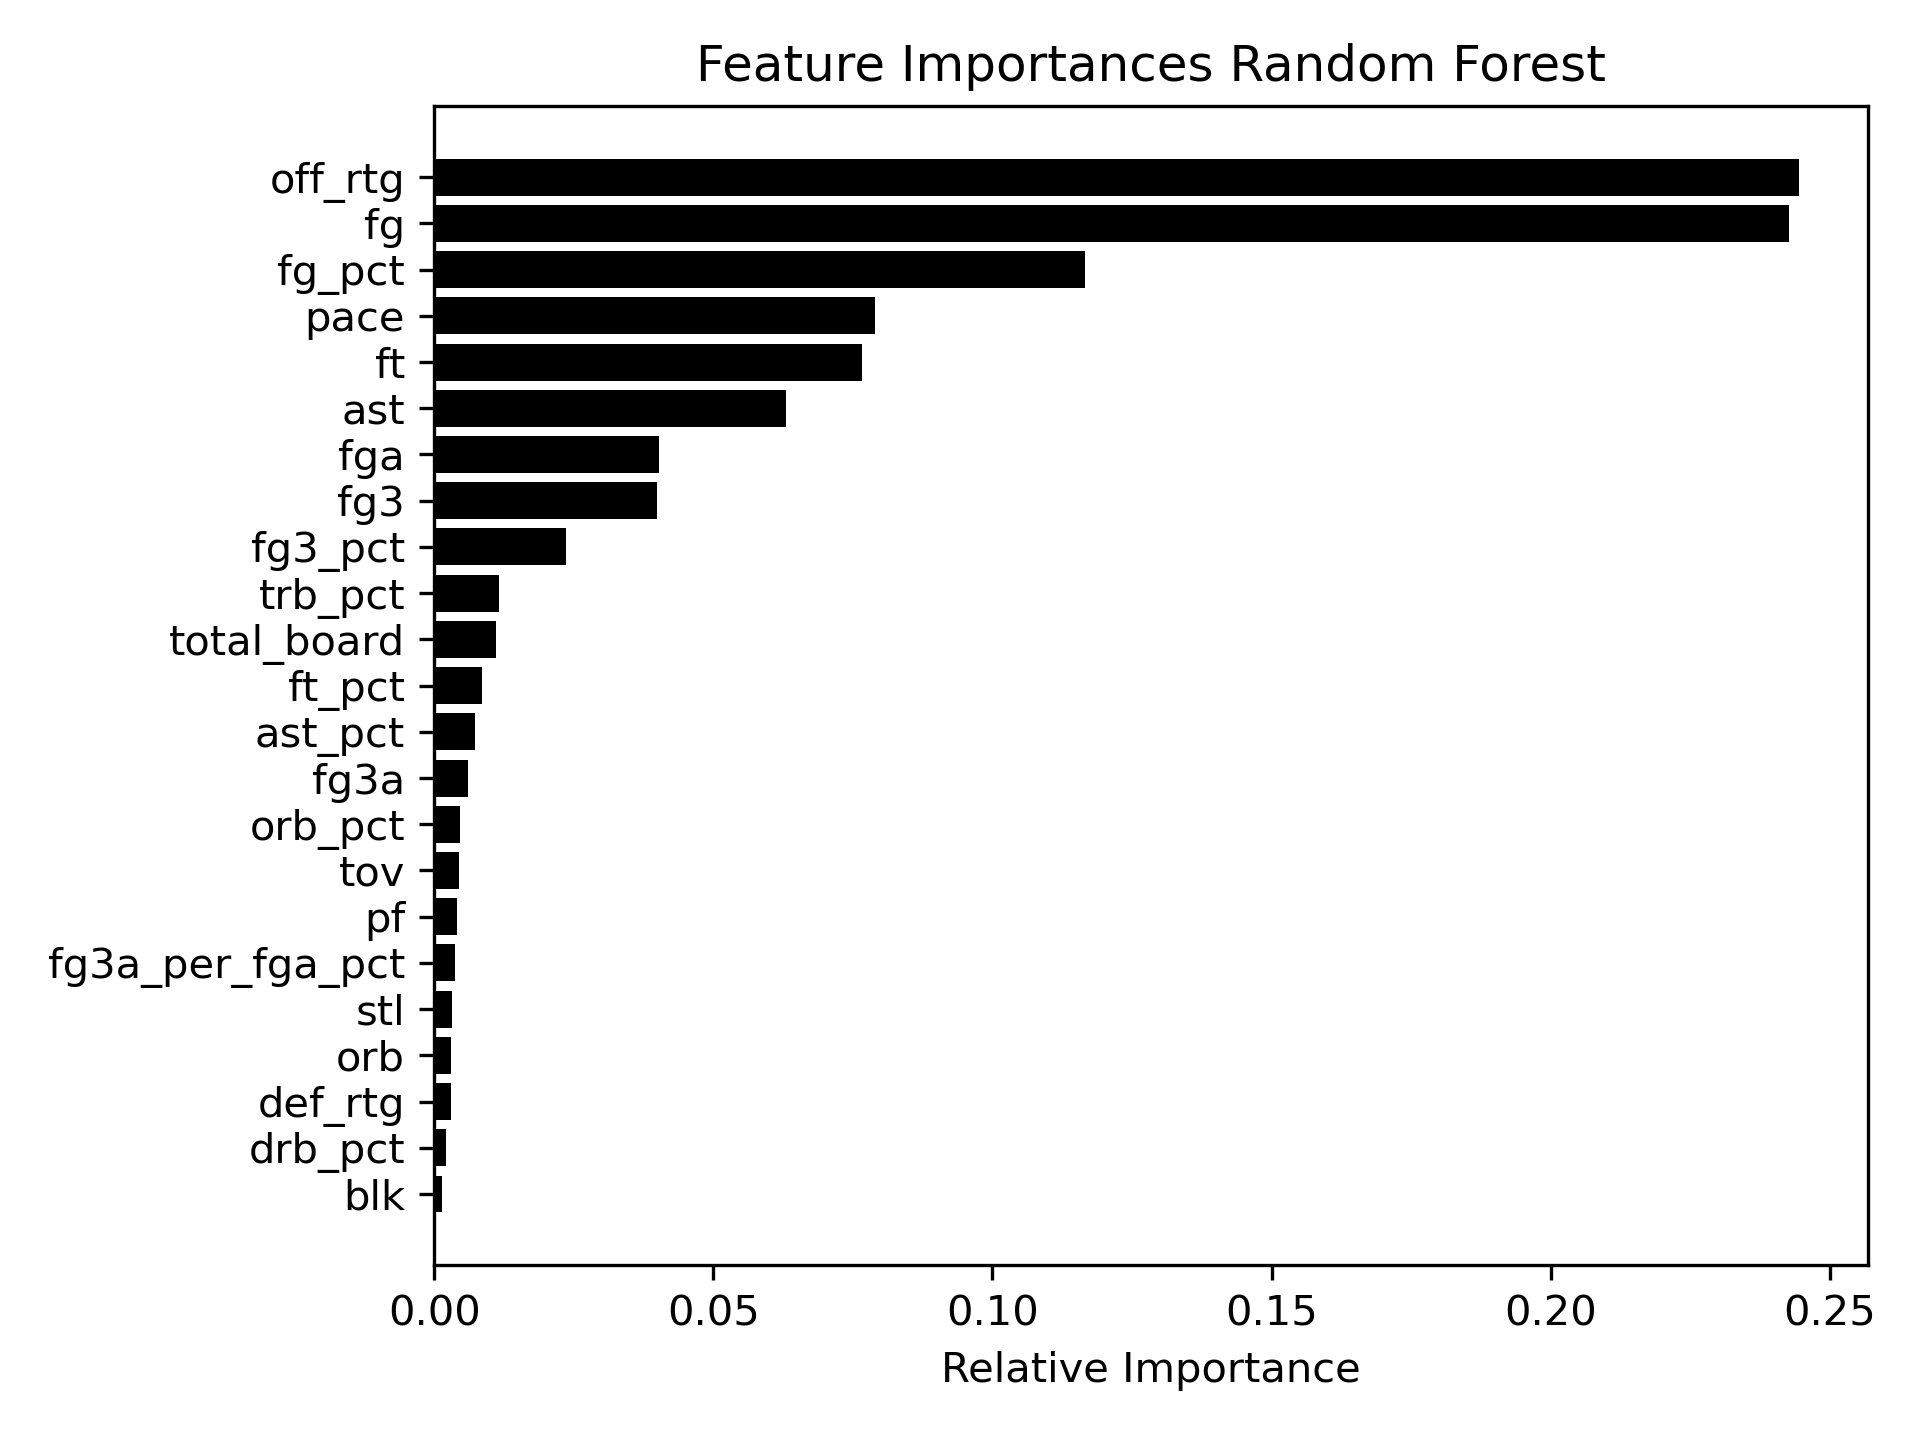
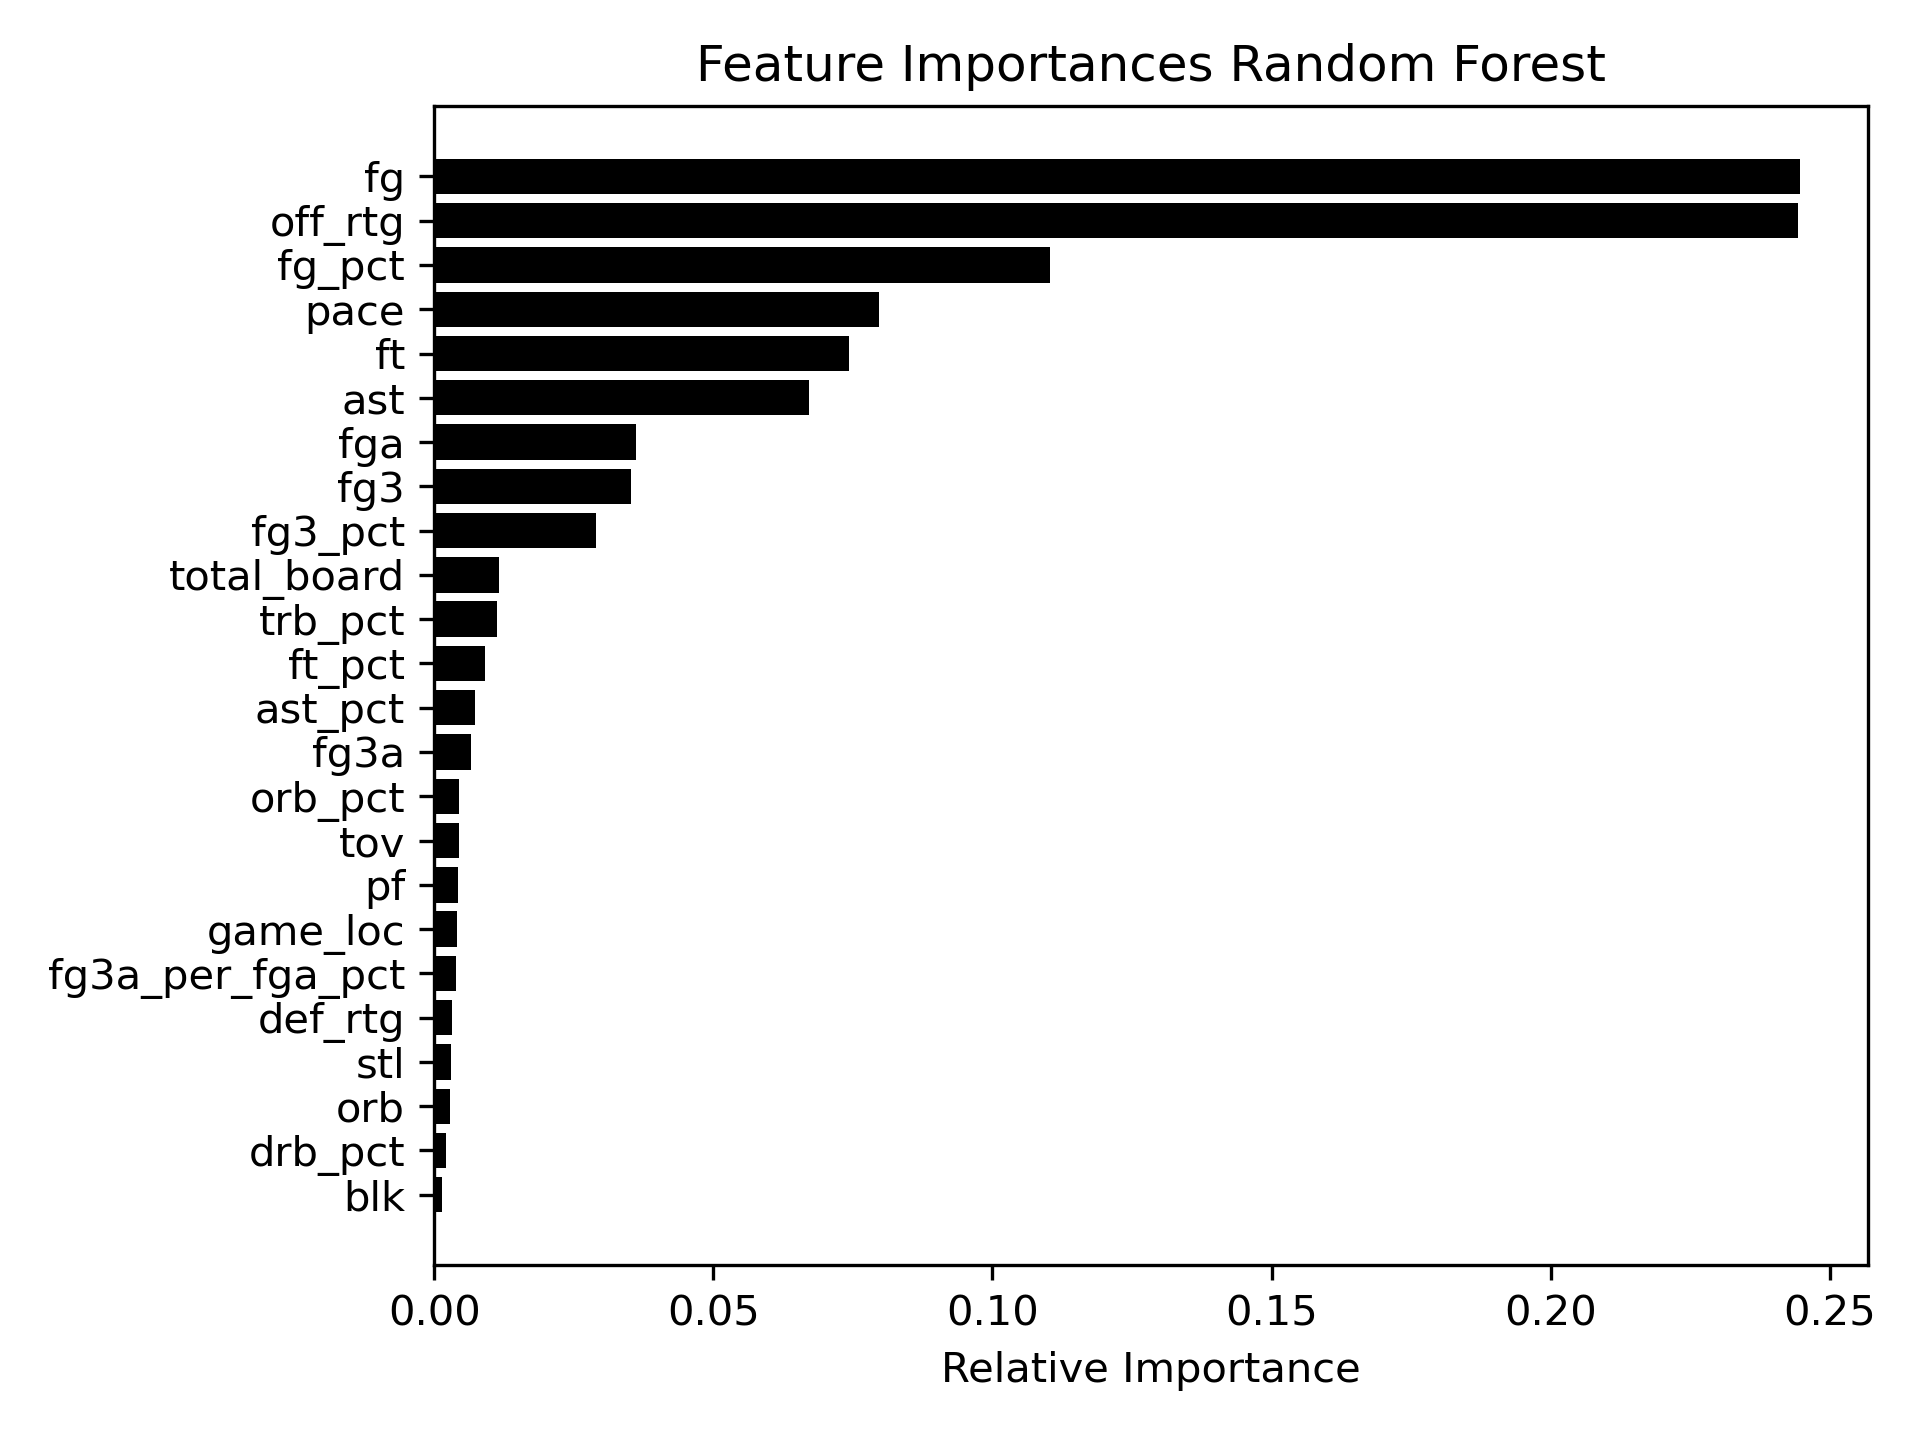
FIX: predict to teams function to handle inputing the game location

Changed region(s): [[0.0312, 0.0938, 0.5938, 0.8125], [0.9062, 0.125, 0.9375, 0.1875]]

diff --git a/cbb_ml.py b/cbb_ml.py
@@ -210,6 +210,14 @@ class cbb_regressor():
                 if team_1 == 'exit':
                     break
                 team_2 = input('team_2: ')
+                #Game location
+                game_loc_team1 = int(input(f'{team_1} : #home = 0, away = 1, N = 2: '))
+                if game_loc_team1 == 0:
+                    game_loc_team2 = 1
+                elif game_loc_team1 == 1:
+                    game_loc_team2 = 0
+                elif game_loc_team1 == 2:
+                    game_loc_team2 = 2
                 #Check to see if the team was spelled right
                 team_1  = get_close_matches(team_1,teams_sports_ref['teams'].tolist(),n=1)[0]
                 team_2  = get_close_matches(team_2,teams_sports_ref['teams'].tolist(),n=1)[0]
@@ -273,11 +281,15 @@ class cbb_regressor():
                 mean_team_2_var = []
                 for ma in tqdm(ma_range):
                     data1_median = team_1_df2023.rolling(ma).median()
+                    data1_median['game_loc'] = game_loc_team1
                     data2_median = team_2_df2023.rolling(ma).median()
+                    data2_median['game_loc'] = game_loc_team2
                     # data1_mean_old = team_1_df2023.rolling(ma).mean()
                     # data2_mean_old = team_2_df2023.rolling(ma).mean()
                     data1_mean = team_1_df2023.ewm(span=ma,min_periods=ma-1).mean()
+                    data1_mean['game_loc'] = game_loc_team1
                     data2_mean = team_2_df2023.ewm(span=ma,min_periods=ma-1).mean()
+                    data2_mean['game_loc'] = game_loc_team2
                     team_1_predict_median = self.RandForRegressor.predict(data1_median.iloc[-1:])
                     team_2_predict_median = self.RandForRegressor.predict(data2_median.iloc[-1:])
                     team_1_predict_mean = self.RandForRegressor.predict(data1_mean.iloc[-1:])
@@ -340,9 +352,9 @@ class cbb_regressor():
                 exc_type, exc_obj, exc_tb = sys.exc_info()
                 fname = os.path.split(exc_tb.tb_frame.f_code.co_filename)[1]
                 print(exc_type,' File with the error: ', fname, ' Line number with error: ',exc_tb.tb_lineno)
-                if exc_tb.tb_lineno == 216:
+                if exc_tb.tb_lineno == 226:
                     print(f'{team_1} data could not be found. check spelling or internet connection. Some teams do not have data on SportsReference')
-                elif exc_tb.tb_lineno == 219:
+                elif exc_tb.tb_lineno == 229:
                     print(f'{team_2} data could not be found. check spelling or internet connection. Some teams do not have data on SportsReference')
     def feature_importances_random_forest(self):
         importances = self.RandForRegressor.best_estimator_.feature_importances_
